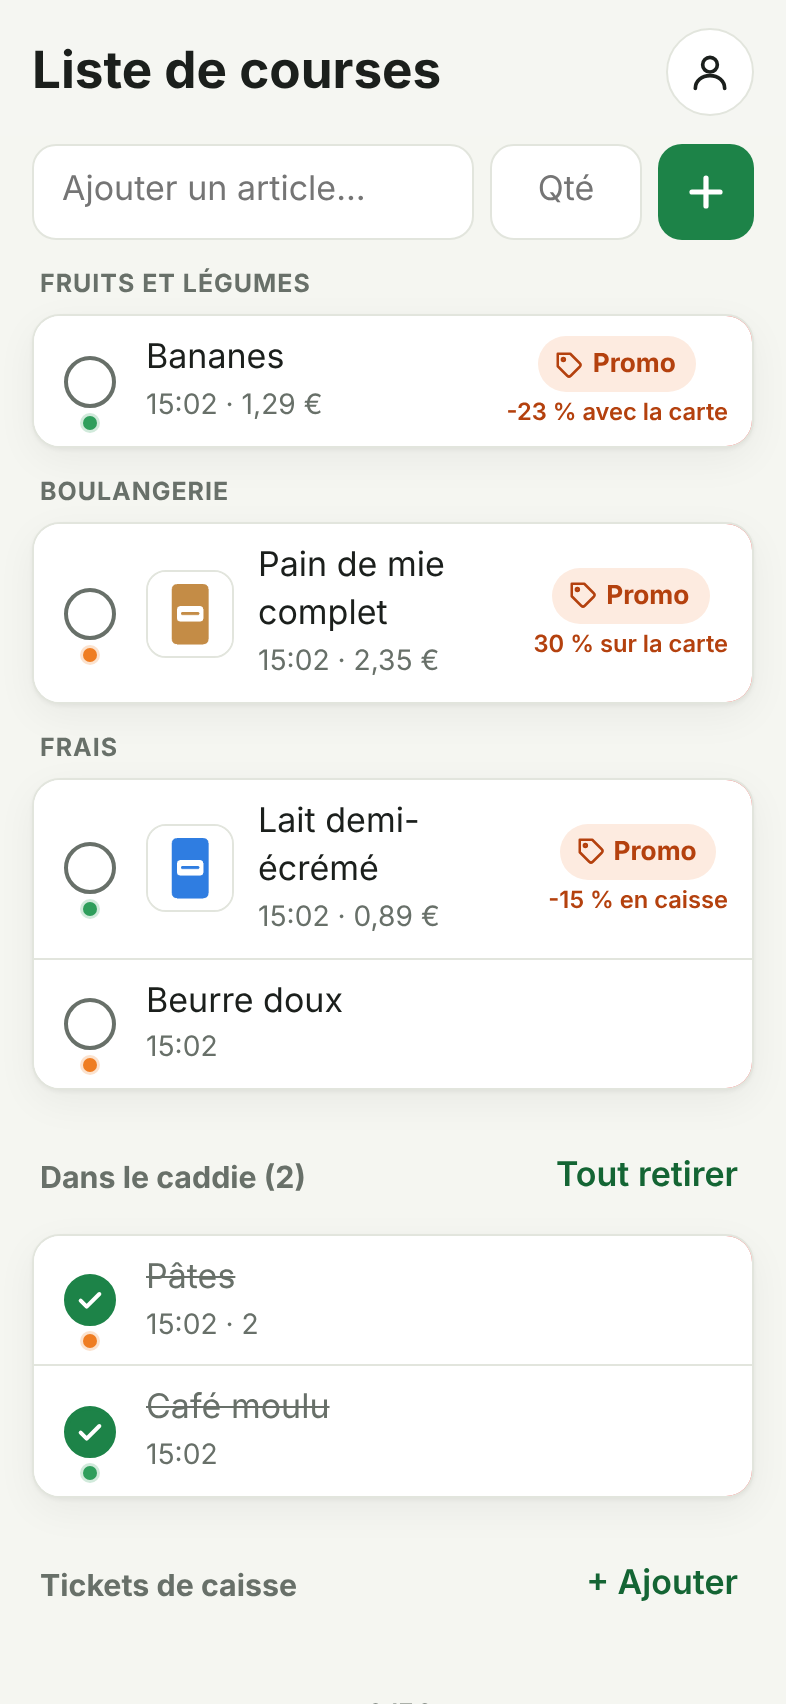
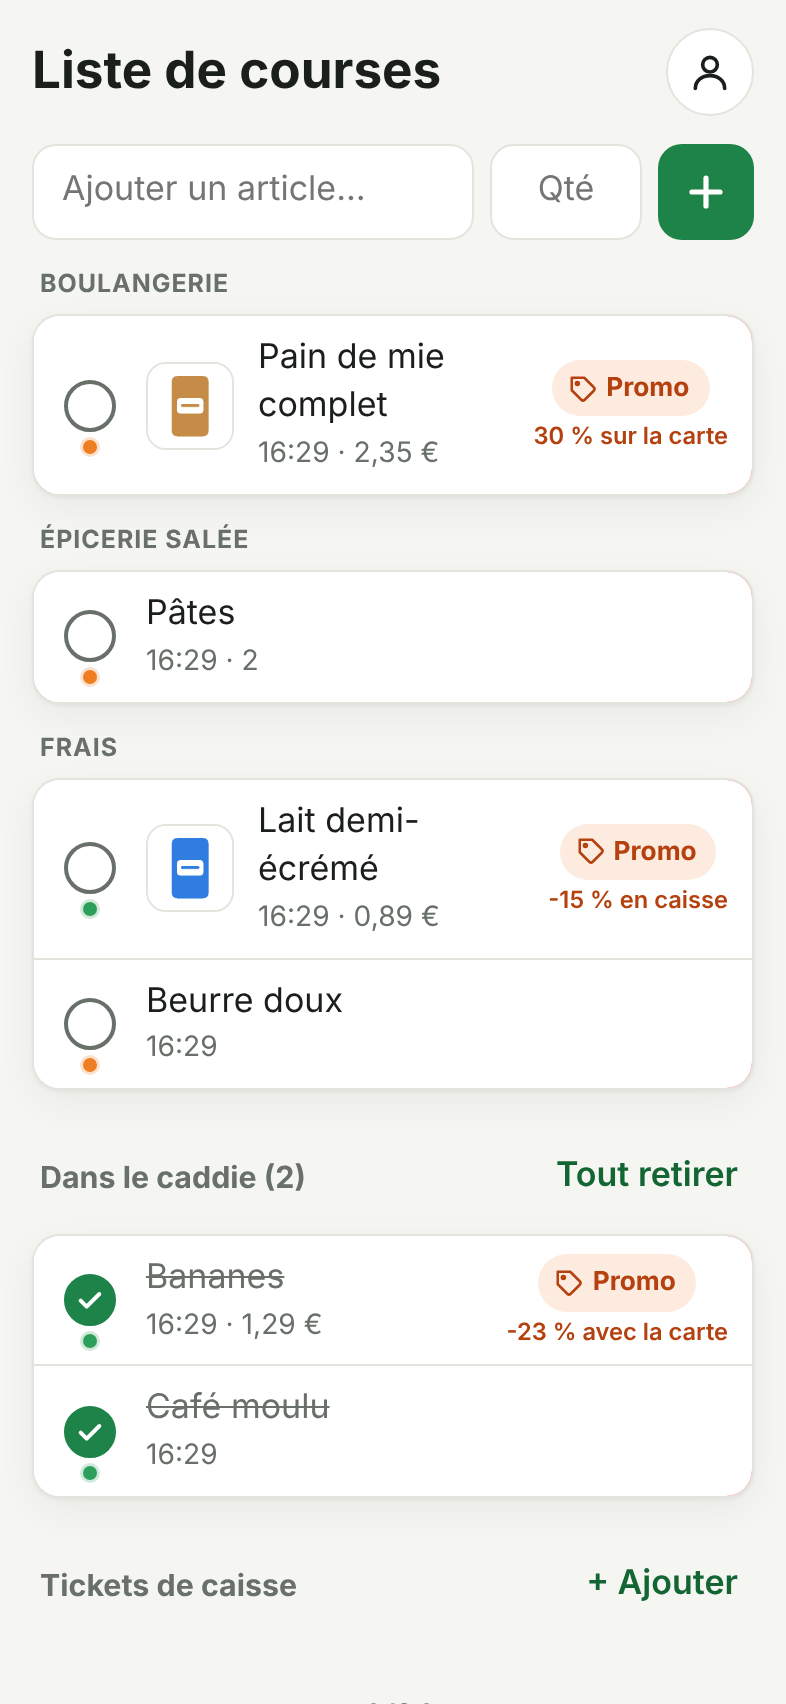
Appli 0.19 : la promo reste affichée sur les articles du caddie
Un article ajouté depuis une promo garde, une fois coché, la photo du
produit et son étiquette « Promo » avec le type de promo : on voit d'un
coup d'œil ce qui était en promo dans le caddie. Test, captures et
documentation à jour.

Claude-Session: https://claude.ai/code/session_01NExQydJf7Spos4MHk3nxW4

diff --git a/app/src/main.js b/app/src/main.js
@@ -235,19 +235,20 @@ function dessinerListe() {
   const rayons = rangerParRayon(aAcheter, etat.correctionsRayons);
   const aujourdhui = dateDuJour();
   // Rangés par rayon, dans l'ordre du magasin. À droite d'un article ajouté depuis une promo
-  // (« + Ajouter ») : cette promo, toujours à jour.
+  // (« + Ajouter ») : cette promo, toujours à jour ; dans le caddie aussi, pour voir ce qui était en promo.
+  const promoDe = (article) => promoChoisie(article, etat.promos?.index, aujourdhui);
   $("liste-a-acheter").replaceChildren(
     ...rayons.map(({ rayon, articles }) => {
       const section = element("section", "rayon");
       section.setAttribute("aria-label", rayon.nom);
       const titre = element("h3", "titre-rayon", rayon.nom);
       const liste = element("ul", "liste");
-      liste.append(...articles.map((a) => ligneArticle(a, promoChoisie(a, etat.promos?.index, aujourdhui))));
+      liste.append(...articles.map((a) => ligneArticle(a, promoDe(a))));
       section.append(titre, liste);
       return section;
     }),
   );
-  $("liste-caddie").replaceChildren(...dansLeCaddie.map((a) => ligneArticle(a)));
+  $("liste-caddie").replaceChildren(...dansLeCaddie.map((a) => ligneArticle(a, promoDe(a))));
   $("liste-vide").hidden = aAcheter.length > 0;
   $("section-caddie").hidden = dansLeCaddie.length === 0;
   $("titre-caddie").textContent = `Dans le caddie (${dansLeCaddie.length})`;

diff --git a/app/e2e/promos.spec.js b/app/e2e/promos.spec.js
@@ -81,11 +81,16 @@ test("un article ajouté depuis une promo l'affiche à droite ; écrit à la mai
   await expect(lait.locator(".periode")).toContainText("Jusqu'au");
   await page.getByRole("button", { name: "Fermer" }).click();
 
-  // Dans le caddie, plus besoin de l'étiquette.
+  // Dans le caddie, l'étiquette reste : on voit ce qui était en promo, et la promo s'ouvre toujours.
   await page.getByRole("checkbox", { name: "Lait demi-écrémé : à acheter" }).click();
   await expect(caddie(page)).toContainText("Lait demi-écrémé");
-  await expect(caddie(page).locator(".bouton-promos")).toHaveCount(0);
-  await expect(caddie(page).locator(".photo-article")).toHaveCount(0);
+  await expect(caddie(page).locator(".type-promo")).toHaveText("-15 % en caisse");
+  await expect(caddie(page).locator(".photo-article")).toHaveAttribute("src", "https://exemple.test/photos/lait.jpg");
+  await caddie(page)
+    .getByRole("button", { name: /^Voir la promo de Lait demi-écrémé/i })
+    .click();
+  await expect(page.getByRole("dialog", { name: "Promo pour « Lait demi-écrémé »" })).toBeVisible();
+  await page.getByRole("button", { name: "Fermer" }).click();
 });
 
 test("le prix dit clairement où va la réduction : sur la carte E.Leclerc, ou en caisse avec la carte", async ({

diff --git a/app/e2e/captures.spec.js b/app/e2e/captures.spec.js
@@ -82,10 +82,13 @@ for (const theme of ["light", "dark"]) {
       }
       await autre.context().close();
       await page.getByRole("checkbox", { name: "Café moulu : à acheter" }).click();
-      await page.getByRole("checkbox", { name: "Pâtes : à acheter" }).click();
+      // Une promo dans le caddie : son étiquette reste.
+      await page.getByRole("checkbox", { name: "Bananes : à acheter" }).click();
     }
     await expect(page.locator("#liste-caddie .article")).toHaveCount(2);
     await expect(page.locator(".bouton-promos")).toHaveCount(3);
+    // Les bananes n'ont pas de photo sûre : l'emplacement est retiré avant la capture.
+    await expect(page.locator("#liste-caddie .photo-article")).toHaveCount(0);
     await page.locator("#ajout-nom").blur();
     await page.screenshot({ path: `${DOSSIER}liste${suffixe}.png` });
 

diff --git a/docs/appli.md b/docs/appli.md
@@ -109,11 +109,13 @@ Geispolsheim. L'appli lit ce fichier :
 - en écrivant un article, les promos qui correspondent s'affichent (voir plus bas) ; **« + Ajouter »**
   sur l'une d'elles ajoute l'article **avec cette promo** ;
 - un article ajouté ainsi montre, juste après le rond à cocher, la **photo du produit** en petit (la
-  toucher montre la promo ; rien sans photo sûre, ni dans le caddie) ;
+  toucher montre la promo ; rien sans photo sûre) ;
 - il porte à droite une étiquette orange **« Promo »**, et dessous, en petit, le
   **type de promo**, sans avoir à l'ouvrir : « -60 % sur le 2e » (en prenant plusieurs), « -20 % en
   caisse », « 30 % sur la carte » (Ticket E.Leclerc), « -25 % avec la carte », ou le prix s'il n'y a pas de réduction particulière ; « dès le 29 oct. » s'ajoute pour une promo
   qui n'a pas encore commencé ; quand la promo n'est plus dans les catalogues, « Promo terminée » ;
+- une fois l'article coché, **dans le caddie**, la photo et l'étiquette « Promo » restent : on voit
+  d'un coup d'œil ce qui était en promo, et la promo s'ouvre toujours en touchant l'étiquette ;
 - un article **écrit à la main** (« + » ou « OK ») n'affiche **aucune promo**, même s'il y en a :
   la liste reste légère ; pour les voir, il suffit d'écrire l'article dans le champ ;
 - les articles ajoutés depuis une promo par les versions précédentes retrouvent leur promo d'après

diff --git a/CHANGELOG.md b/CHANGELOG.md
@@ -14,6 +14,13 @@ Tant que le projet est en `0.x`, il est en construction : le format peut encore 
 
 ## [Non publié]
 
+### Modifié
+
+- **La promo reste affichée dans le caddie** : un article ajouté depuis une promo garde, une fois
+  coché, la photo du produit et son étiquette « Promo » avec le type de promo (« -15 % en caisse »).
+  On voit d'un coup d'œil ce qui était en promo, et la promo s'ouvre toujours en touchant
+  l'étiquette.
+
 ## [0.18.0] - 2026-11-04
 
 ### Ajouté
